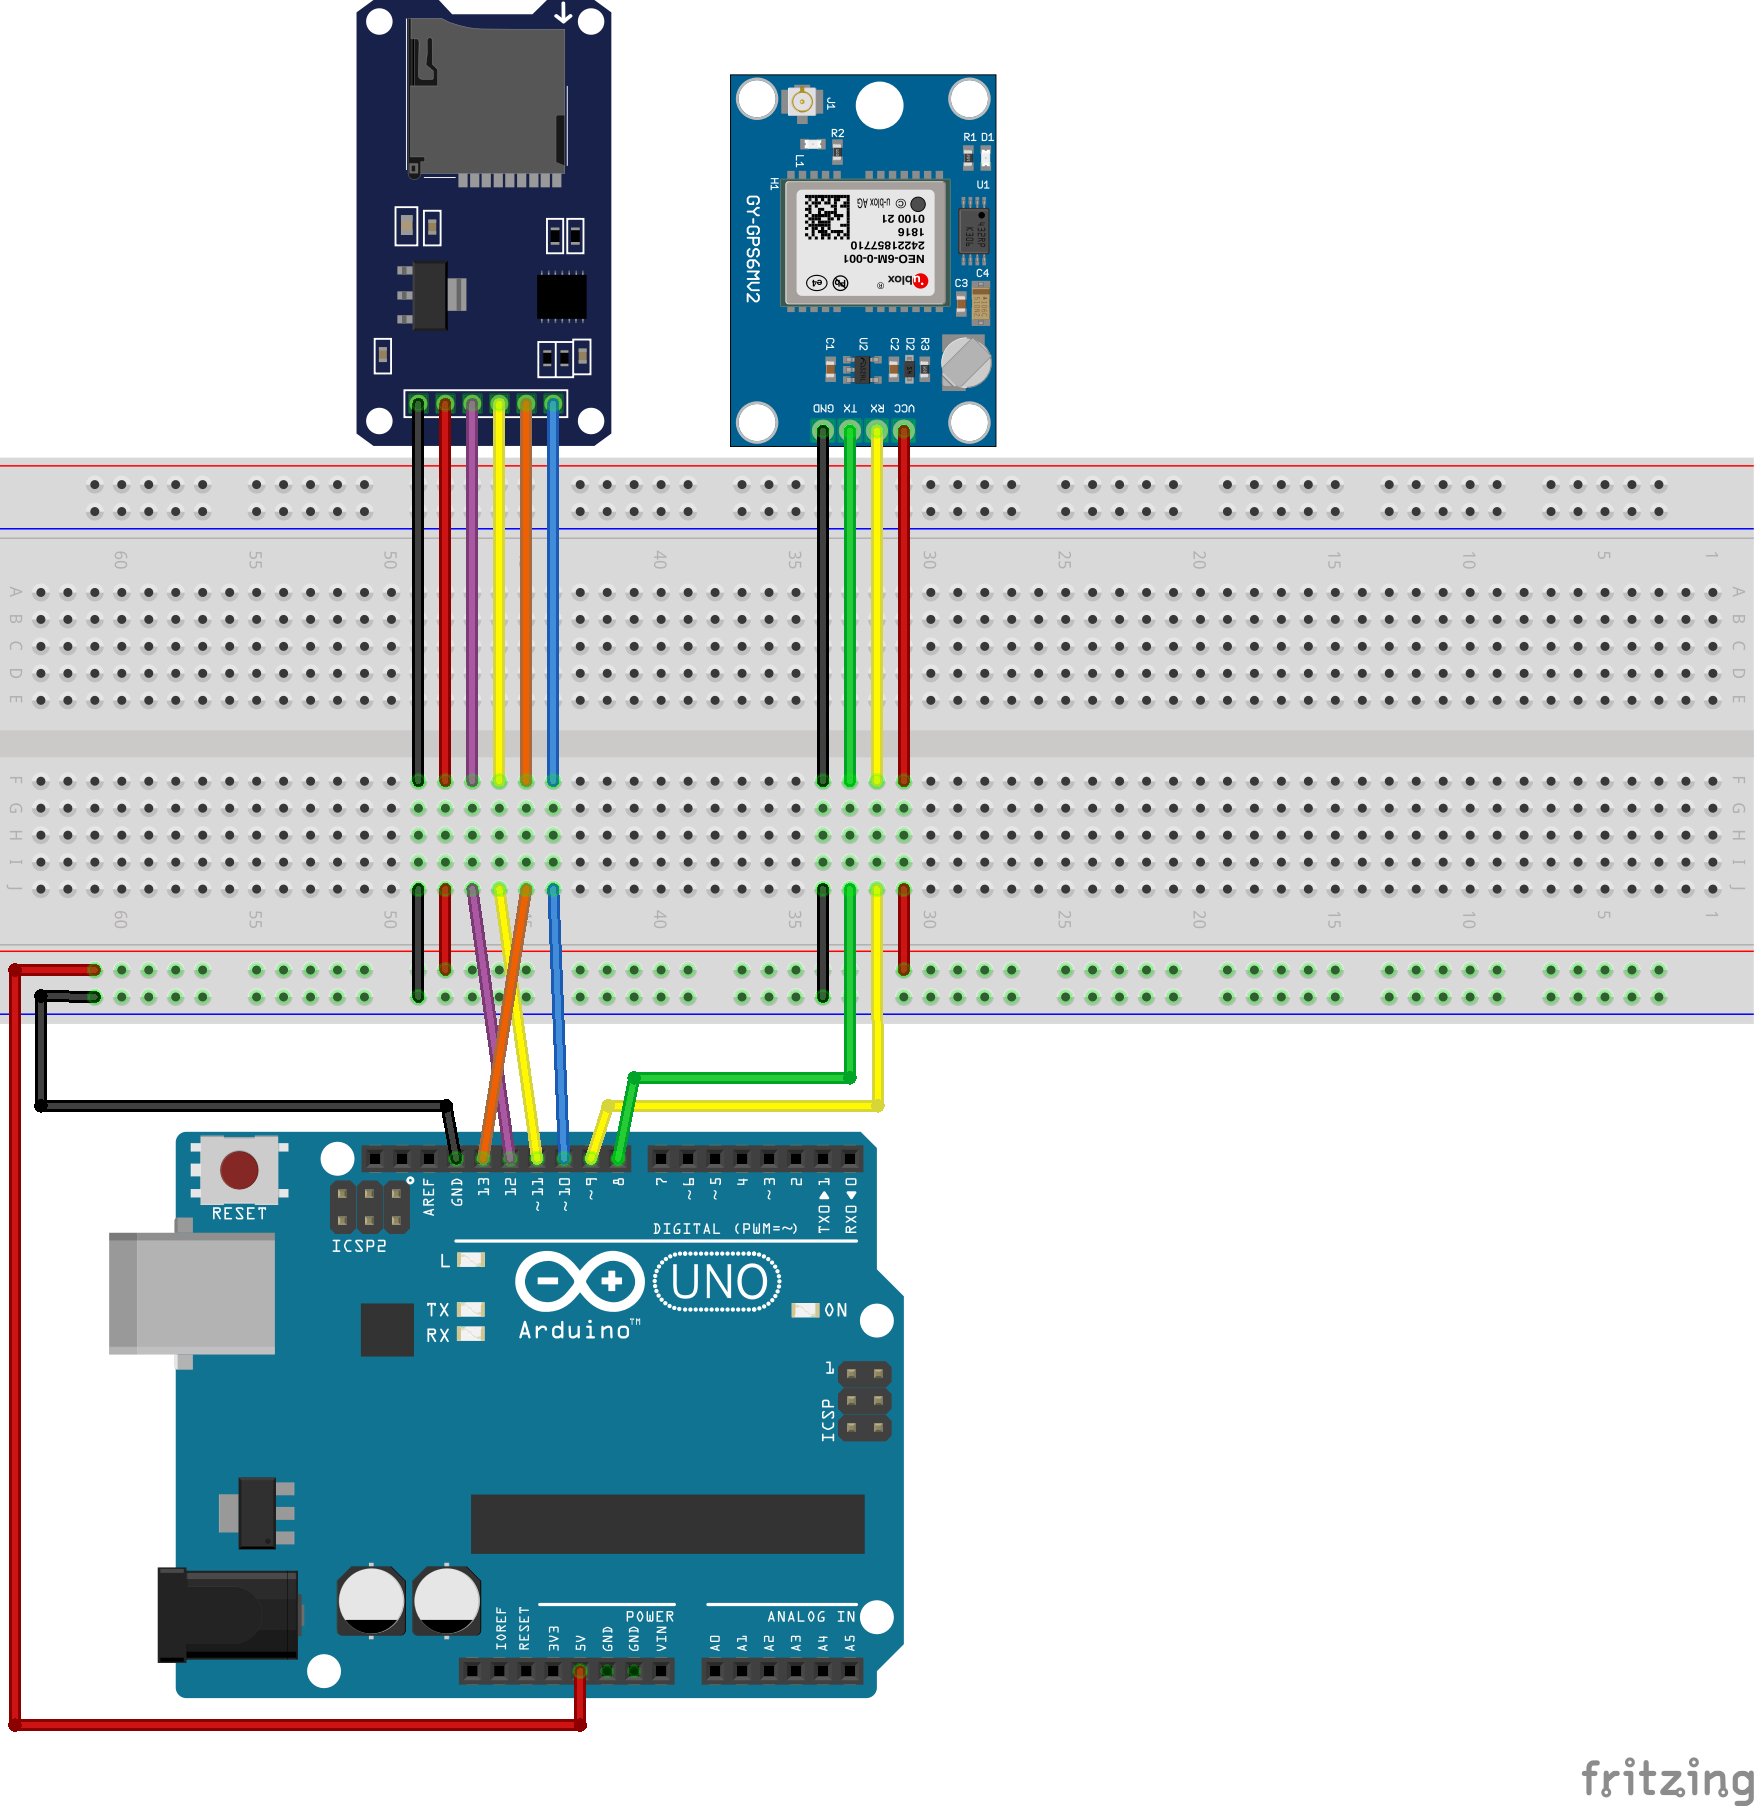
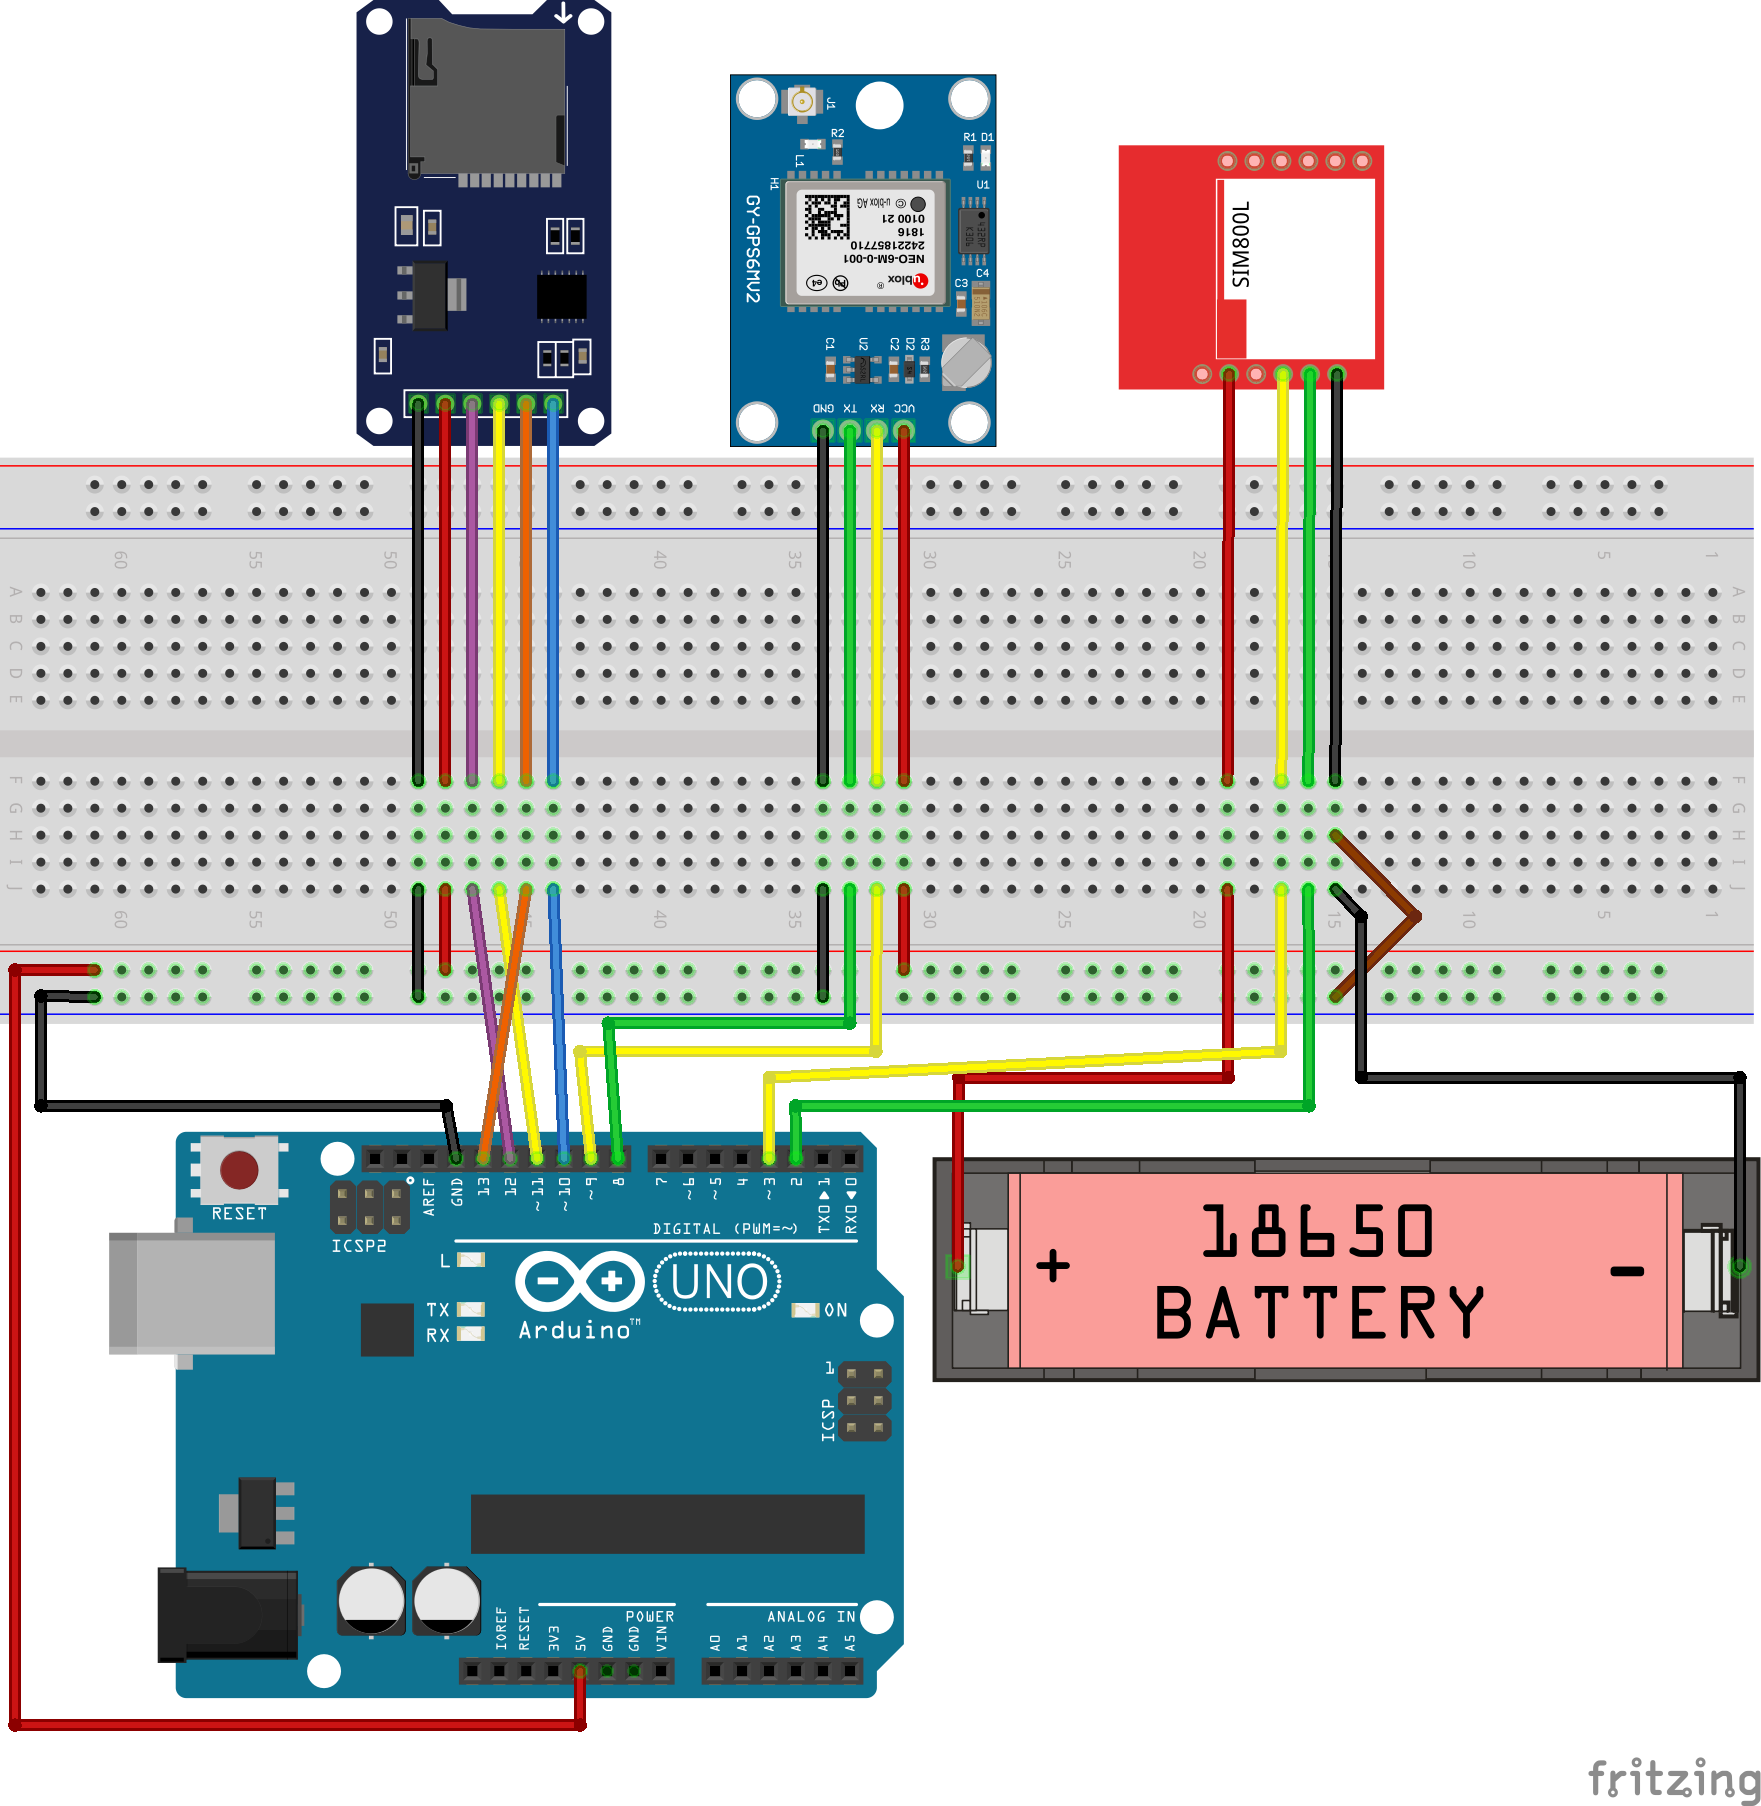
readme gsm module added

diff --git a/README.md b/README.md
@@ -5,8 +5,13 @@ This repository contains the specifications, code and hardware, used by the devi
 - Arduino Uno
 - [GY-NEO6MV2 GPS Module](#gy-neo6mv2)
 - [Micro SD Card Module](#micro-sd-card-module)
+- [Sim800L GSM Module](#sim800l-gsm-module)
+- 18650 Li-ION Battery - 3.6V 2600mAh
 - Protoboard
 - Jumpers
+
+## External Libraries
+- [TinyGPS](https://www.arduino.cc/reference/en/libraries/tinygps/)
 
 ### GY-NEO6MV2
 At the heart of the module is a GPS chip from U-blox – NEO-6M ([Chip Datasheet](https://content.u-blox.com/sites/default/files/products/documents/NEO-6_DataSheet_%28GPS.G6-HW-09005%29.pdf)). The chip measures less than a postage stamp but packs a surprising amount of features into its tiny frame.
@@ -33,11 +38,11 @@ TXD/RXD Impedance | 510Ω
 **The operating voltage of the NEO-6M chip ranges from 2.7 to 3.6V. But, the module comes with MICREL’s MIC5205 Ultra-Low Dropout 3V3 regulator.
 So we can easily connect it to Arduino or any 5V logic microcontroller without using a logic level converter.**
 
-#### Position Fix Led Indicator
+#### Led Indicator
 There is an LED on the NEO-6M GPS module that indicates the status of the ‘Position Fix’. It will blink at different rates depending on which state it is in:
 
-* No blinking – it is searching for satellites.
-* Blink every 1s – Position Fix is found (the module can see enough satellites).
+* No blinking - it is searching for satellites.
+* Blink every 1s - Position Fix is found (the module can see enough satellites).
 
 #### Pinout
 Pin | Desc
@@ -72,8 +77,40 @@ MISO (Master Out Slave In) | SPI input to the Micro SD Card Module.
 VCC | upplies power for the module and should be connected to 5V pin on the Arduino.
 GND | ground.
 
-## Extra Libraries
-- [TinyGPS](https://www.arduino.cc/reference/en/libraries/tinygps/)
+### Sim800L GSM Module
+The SIM800L GSM/GPRS module is a miniature GSM modem that can be integrated into a large number of IoT projects. This module can accomplish almost anything that a normal cell phone can do such as sending SMS messages, making phone calls, connecting to the Internet via GPRS, and much more.
+
+#### Specs
+Spec | Value
+-----------|-------------
+Operating Voltage | 3.4V to 4.4V (ideally 4.1V)
+Power consumption | <ul><li>sleep mode < 2.0mA</li><li>idle mode < 7.0mA</li><li>GSM transmission (avg): 350 mA</li><li>GSM transmission (peek): 2000mA</li></ul>
+Interface | UART (max. 2.8V) and AT commands
+Supported frequencies | Quad Band (850 / 950 / 1800 /1900 MHz)
+Antenna connector | IPX
+Operating Temperature | -40°C ~ 85°C
+
+#### Led Indicator
+On the top right of the SIM800L module is an LED that indicates the status of your cellular network. It blinks at different rates depending on which state it is in:
+
+* No blinking - module is off.
+* Blink every 1s - is running but the connection to the cellular network has not yet been made.
+* Blink every 2s - GPRS data connection you requested is active.
+* Blink every 3s - it has made contact with the cellular network and can send/receive voice and SMS.
+
+#### Pinout
+Pin | Desc
+-----|------
+NET | is a pin where you can solder the helical antenna provided with the module.
+VCC | supplies power to the module. It can be anywhere from 3.4V to 4.4 volts. Remember that connecting this to the 5V will probably damage your module! It doesn’t even run on 3.3 V! So try using a 3.7V 2A rated external power source like a Li-Po battery or a DC-DC buck converter.
+RST (Reset) | is a hard reset pin. If you got the module in an absolutely bad space, pull this pin LOW for 100ms to perform a hard reset.
+RxD (Receiver) | pin is used to send commands to the module. This pin is auto-baud so the baud rate at which you send the “AT” command after reset is the baud rate used.
+TxD (Transmitter) | pin transmits data from the module to the microcontroller.
+GND | ground.
+RING | pin acts as a Ring Indicator. This is basically the ‘interrupt-out’ pin from the module. It is HIGH by default and pulses LOW for 120ms when a call is received. It can also be configured to pulse when SMS is received.
+DTR | pin activates/deactivates the sleep mode. Pulling it HIGH will put the module into sleep mode, disabling serial communication. Pulling it LOW will wake up the module.
+MIC± | is a differential microphone input. A microphone can be connected directly to these two pins.
+SPK± | is a differential speaker interface. A speaker can be connected directly to these two pins.
 
 ## Wiring Diagram
 ![Wiring](wiring.png)
@@ -95,3 +132,19 @@ MOSI | Pin 11
 MISO | Pin 12
 VCC | 5V
 GND | GND
+
+### Sim800L Module
+Module Pin | Arduino Pin
+-----------|-------------
+RxD | Pin 3
+TxD | Pin 2
+GND | GND
+
+- **VCC: Battery +**
+- **GND: Battery -**
+
+## References
+- https://lastminuteengineers.com/neo6m-gps-arduino-tutorial/
+- https://lastminuteengineers.com/arduino-micro-sd-card-module-tutorial/
+- https://lastminuteengineers.com/sim800l-gsm-module-arduino-tutorial/
+- https://www.elecrow.com/wiki/images/2/20/SIM800_Series_AT_Command_Manual_V1.09.pdf
